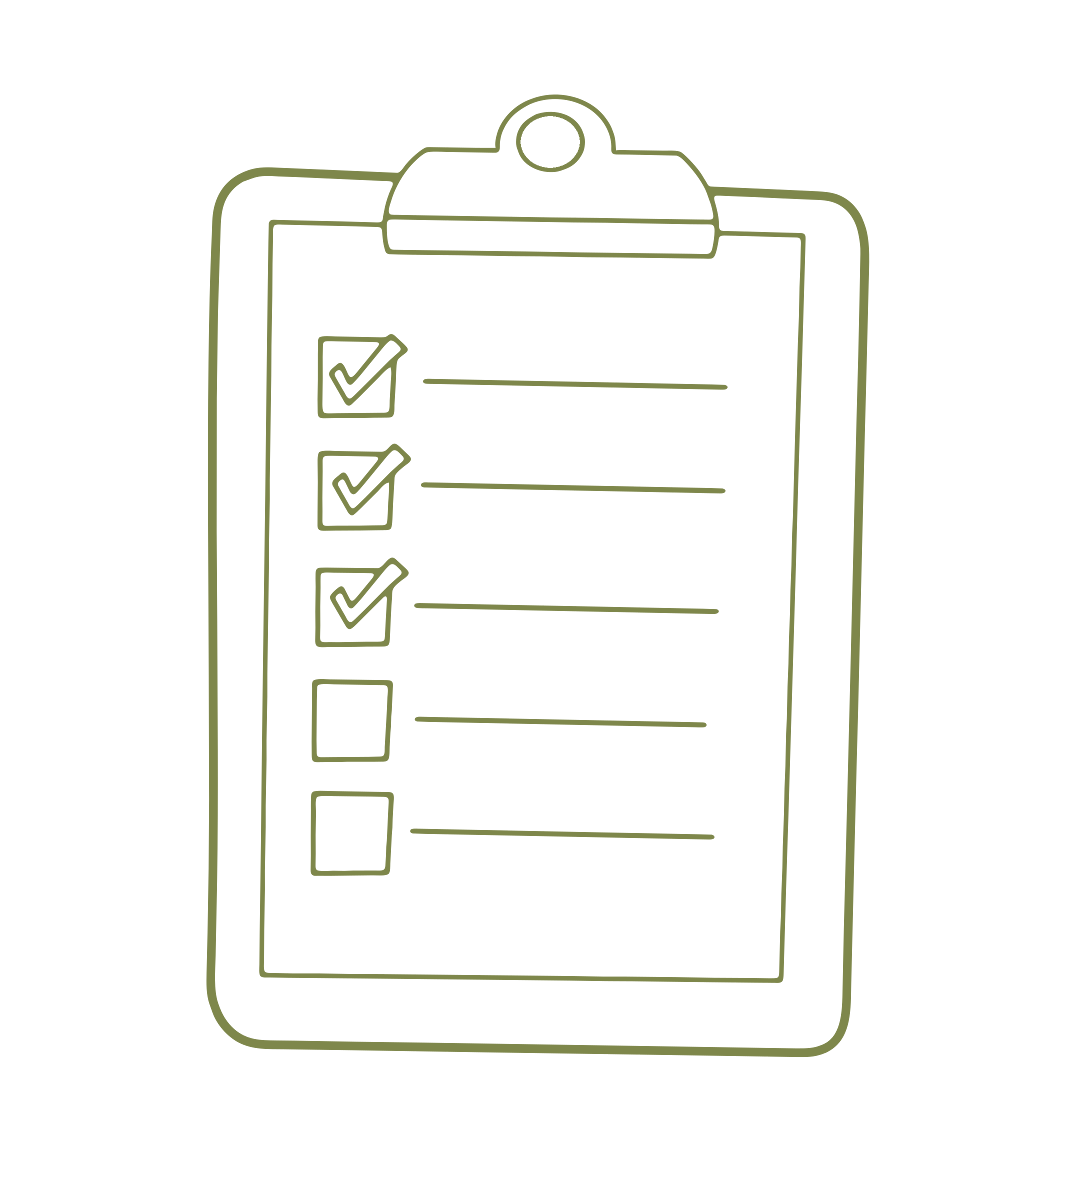
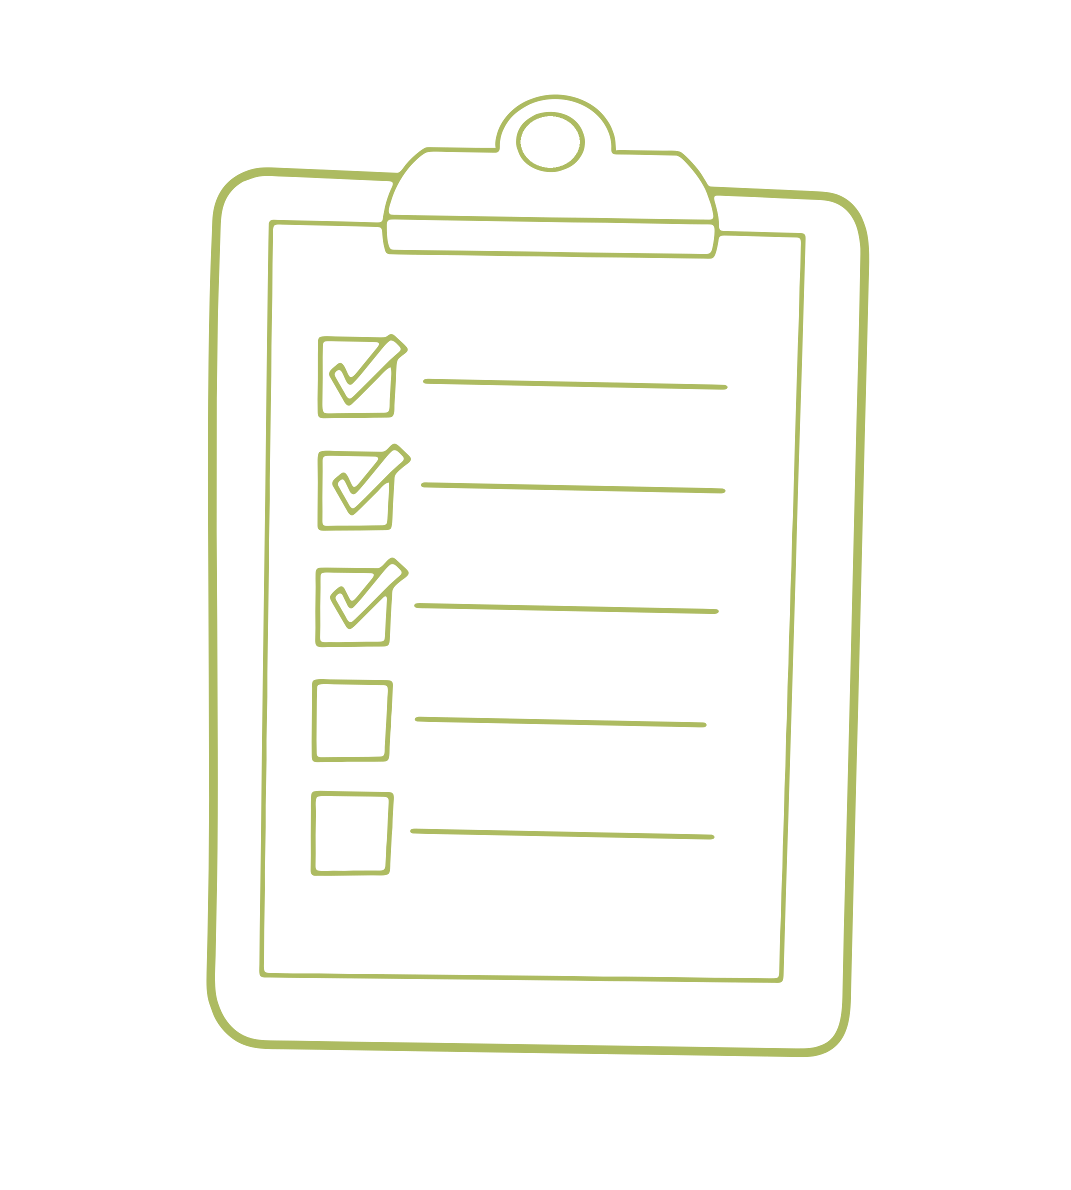
Updated homepage layout/color scheme.

diff --git a/styles/base.min.css b/styles/base.min.css
@@ -1,1 +1,1 @@
-#homepage{background:#fff}h1#logo{height:15vh;padding:2vh;background-color:#263056;background-image:url(../assets/img/logo.png);background-size:contain;background-position:center left;background-repeat:no-repeat;background-origin:content-box;color:#fff;font-size:2.5rem;line-height:11vh;text-indent:15vh}#homepage-header{display:flex;flex-direction:row;height:85vh;overflow:hidden}#homepage-header .homepage-tab{display:flex;position:relative;flex-direction:column;align-items:center;justify-content:center;flex:4;cursor:pointer;transition:flex 400ms}#homepage-header .homepage-tab:hover{flex:5}#homepage-header .homepage-tab#admin-tab .tab-icon{transform:rotate(4deg);transition:transform 400ms}#homepage-header .homepage-tab#admin-tab:hover .tab-icon{transform:rotate(0deg);transition:transform 400ms 400ms}#homepage-header .homepage-tab .tab-icon{width:18vw}#homepage-header .homepage-tab .tab-name{font-size:2.5rem}#homepage-header .homepage-tab .tab-button{display:inline-block;margin:4rem 1rem 0;padding:1rem;background-color:#FA7268;color:#141414;font-family:Teko,Impact,sans-serif;font-size:2rem;text-decoration:none;transform:skewX(-4deg);transition:background-color 400ms,color 400ms}#homepage-header .homepage-tab .tab-button .tab-button-text{display:block;transform:skewX(4deg)}#homepage-header .homepage-tab:hover .tab-button.default-link,#homepage-header .homepage-tab .tab-button:hover{background-color:#141414;color:#fff}#homepage-header .homepage-tab:hover .tab-button.default-link.not-selected{background-color:#FA7268;color:#141414}#homepage-header .divider{position:relative;flex:0}#homepage-header .divider:after{content:'';position:absolute;left:0;right:0;top:-25vh;bottom:-25vh;z-index:100;width:8vw;border-style:dashed;border-width:0;transform:translateX(-50%) rotate(4deg)}#homepage-header .divider.start:after{border-color:#7E874B;border-right-width:2px}#homepage-header .divider.middle:after{background:linear-gradient(90deg, #7E874B 0%, #7E874B 49.5%, #FA7268 50.5%, #FA7268 100%);transition:width 400ms}#homepage-header .divider.end:after{border-color:#7E874B;border-left-width:2px}#homepage-header:hover .divider.middle:after{width:4vw}@media screen and (max-width: 900px){#homepage-header{flex-direction:column;height:auto}#homepage-header .homepage-tab{flex:auto}#homepage-header .homepage-tab:hover{flex:auto}#homepage-header .homepage-tab#parents-tab{padding:12vh 0}#homepage-header .homepage-tab#admin-tab{padding:12vh 0;min-height:100vh}#homepage-header .homepage-tab#admin-tab .tab-icon{transform:rotate(0deg)}#homepage-header .homepage-tab .tab-icon{width:auto;height:25vh}#homepage-header .homepage-tab .tab-name{font-size:3rem}#homepage-header .homepage-tab .tab-button{display:block;margin:2rem 0}#homepage-header .divider:after{left:-25vw;right:-25vw;top:0;bottom:auto;height:12vh;width:auto;transform:translateY(-50%) rotate(-4deg)}#homepage-header .divider.start:after{content:none}#homepage-header .divider.middle:after{background:linear-gradient(#7E874B 0%, #7E874B 49.5%, #FA7268 50.5%, #FA7268 100%)}#homepage-header .divider.end:after{border-left-width:0;border-top-width:2px}#homepage-header:hover .divider.middle:after{width:auto}}@media screen and (max-width: 700px){h1#logo{height:10vh;padding:1vh;font-size:1.5rem;line-height:8vh;text-indent:10vh}}@media screen and (max-width: 400px){h1#logo{font-size:1.25rem}#homepage-header .homepage-tab .tab-name{font-size:2rem}#homepage-header .homepage-tab .tab-button{font-size:1.25rem}}#parent-tips-title{font-size:4em;margin:20vh 20vh 10vh 20vh}#parent-tips-title:after{content:'';display:block;width:50%;height:5px;background-color:#7E874B;position:relative;right:0%}.tipsContainer{display:flex;flex-direction:column;justify-content:flex-start;align-items:flex-start;margin:0 20vh}.tipsContainer .tipsItem{display:flex;justify-content:space-between;align-items:flex-start;margin:20px 0}.tipsContainer .tipsItem img{width:20%}.gallery{position:relative;min-height:100vh}.gallery-thumbnails{display:flex;position:relative;flex-wrap:wrap;justify-content:space-between;width:32vw}.gallery-thumbnails .thumbnail{width:30%;margin-bottom:5%;opacity:0;transition:opacity 400ms}.gallery-thumbnails .thumbnail.loaded{opacity:1}.gallery-thumbnails .thumbnail:nth-last-child(1),.gallery-thumbnails .thumbnail:nth-last-child(2),.gallery-thumbnails .thumbnail:nth-last-child(3){margin-bottom:0}.gallery-preview{display:flex;justify-content:center;align-items:center;position:absolute;top:0;right:0;width:44vw;height:94vh;padding:0;background:#eee}.gallery-preview img{display:none;max-width:90%;max-height:90%;opacity:0;transition:transform 400ms,opacity 400ms}.gallery-preview img.loaded.show{display:block;opacity:1}.gallery-preview.scroll-progress{position:fixed;right:10vw;top:6vh}.gallery-preview.scroll-progress img{transform:translateY(0)}.gallery-preview.scroll-end{top:auto;bottom:0;transition:top 0s}@media screen and (max-width: 1200px){.gallery-thumbnails .thumbnail{width:47.5%}}@media screen and (max-width: 900px){.gallery{padding:0 1rem}.gallery-thumbnails{width:100%}.gallery-thumbnails .thumbnail{width:30%}.gallery-preview{display:none}}@media screen and (max-width: 600px){.gallery-thumbnails .thumbnail{width:47.5%}}#navbar{background-color:#263056;display:flex;justify-content:space-between;align-items:center;position:fixed;top:0;left:0;right:0;z-index:10;height:10vh;transition:height .3s ease}#navbar.shrink{height:6vh}#navbar #logo{height:100%;padding:2vh;background-image:url(../assets/img/logo.png);background-size:contain;background-position:center left;background-repeat:no-repeat;background-origin:content-box;color:#fff;font-size:2.5rem;line-height:6vh;text-indent:8vh;cursor:pointer;transition:padding .3s ease, height .3s ease}#navbar #hamburger{display:none}#navbar #nav-buttons{display:none;justify-content:space-between;height:100%;margin-right:150px}#navbar #nav-buttons.ready{display:flex}#navbar #nav-buttons li{height:100%;display:flex;align-items:center}#navbar #nav-buttons li a{display:flex;align-items:center;height:100%;padding:0vh 20px;color:#fff;font-size:1.3em;position:relative}#navbar #nav-buttons li a:after{content:'';display:block;position:absolute;bottom:0px;left:0;height:5px;width:100%;transform:scaleX(0);background-color:#7E874B;transition:transform .1s linear}#navbar #nav-buttons li a:hover{color:#7E874B}#navbar #nav-buttons li a:hover:after{transform:scaleX(0.8)}footer{position:relative;width:100%;height:110px;background:#141414;border-top:3px solid #7E874B;color:#fff;padding:10px;display:flex;justify-content:center;align-items:center;flex-direction:column}footer p{font-size:1.2rem}footer ul{display:flex;justify-content:space-around}footer ul li{padding:5px 20px}footer ul a{color:#fff}footer ul a:hover{color:#7E874B}*{box-sizing:border-box;margin:0;padding:0}body{font-family:Hind,Arial,sans-serif;color:#141414}h1,h2,h3,h4,h5,h6{font-family:Teko,Impact,sans-serif}ul,ol{list-style-type:none}a{text-decoration:none}img{display:block;max-width:100%;max-height:100%}h2.sectionTitle{font-size:3rem;margin:2rem 0}.content{margin:10vw}p{font-size:1.25rem;line-height:1.75}@media (max-width: 680px){#navbar #logo{font-size:1.8rem}}@media (max-width: 1200px){#navbar{align-items:flex-start;justify-content:flex-start;height:10vh}#navbar #logo{height:100%}#navbar #nav-buttons{margin:0}#navbar #nav-buttons .navButton{text-align:center}#navbar #nav-buttons .navButton a{display:flex;justify-content:center;width:100%;text-align:center;padding:0}#navbar #nav-buttons.hamMenu{display:flex;flex-direction:column;justify-content:flex-start;align-items:center;height:260px;width:200px;box-sizing:border-box;position:fixed;right:0px;top:6vh;transition:right .3s ease-in-out;padding:2vh 0px 1vh 0px;background-color:#141414;z-index:-1;border-radius:2px}#navbar #nav-buttons.hamMenu.closed{right:-220px}#navbar #nav-buttons.hamMenu .navButton{position:relative;width:100%;background-color:#141414;display:flex;justify-content:center}#navbar #nav-buttons.hamMenu .navButton a{display:flex;align-items:center;height:100%;padding:0vh 20px;color:#fff;font-size:1.3em;position:relative}#navbar #nav-buttons.hamMenu .navButton a:after{content:'';display:block;position:absolute;bottom:0px;left:0;height:5px;width:100%;transform:scaleX(0);background-color:#7E874B;transition:transform .1s linear}#navbar #nav-buttons.hamMenu .navButton a:hover{color:#7E874B}#navbar #nav-buttons.hamMenu .navButton a:hover:after{transform:scaleX(1)}#navbar #hamburger{width:40px;height:40px;display:flex;flex-direction:column;justify-content:space-between;position:absolute;cursor:pointer;top:50%;right:50px;transform:translate(0px, -50%);border-radius:50%;overflow:hidden;z-index:100}#navbar #hamburger #shutter-layer{background-image:url("../assets/img/svg-shutter-icon-2.svg");background-size:100%;background-position:center;width:100%;height:100%;position:absolute;transition:background-size .3s ease-in-out}#navbar #hamburger #shutter-layer.grow{background-size:450%}#navbar #hamburger #X-layer{color:#fff;display:none;justify-content:center;align-items:center;width:100%;height:100%;position:absolute;opacity:1;right:50%;top:50%;font-size:2.5em;transform:translate(50%, -50%);transition:opacity .2s linear}#navbar #hamburger #X-layer.ready{display:flex}#navbar #hamburger #X-layer.hidden{opacity:0}#navbar #hamburger #X-layer:not(.hidden) .xPiece{width:5px;height:40px;border-radius:4px;background-color:#fff;position:absolute}#navbar #hamburger #X-layer:not(.hidden) .xPiece:nth-child(1){transform:rotate(45deg);transform-origin:center}#navbar #hamburger #X-layer:not(.hidden) .xPiece:nth-child(2){transform:rotate(-45deg);transform-origin:center}}
+#homepage{background:#fff}h1#logo{position:absolute;top:0;left:0;z-index:500;height:10vh;padding:2vh;background-color:white;background-image:url(../assets/img/logo.png);background-size:contain;background-position:center left;background-repeat:no-repeat;background-origin:content-box;color:#263056;font-size:2rem;line-height:6vh;text-indent:8vh}#homepage-header{display:flex;flex-direction:row;height:100vh;overflow:hidden}#homepage-header .homepage-tab{display:flex;position:relative;flex-direction:column;align-items:center;justify-content:center;flex:4;cursor:pointer;transition:flex 400ms}#homepage-header .homepage-tab:hover{flex:5}#homepage-header .homepage-tab#admin-tab{background-color:#263056;color:#fff}#homepage-header .homepage-tab#admin-tab .tab-icon{transform:rotate(4deg);transition:transform 400ms}#homepage-header .homepage-tab#admin-tab:hover .tab-icon{transform:rotate(0deg);transition:transform 400ms 400ms}#homepage-header .homepage-tab .tab-icon{width:18vw}#homepage-header .homepage-tab .tab-name{font-size:2.5rem}#homepage-header .homepage-tab .tab-button{display:inline-block;margin:4rem 1rem 0;padding:1rem;font-family:Teko,Impact,sans-serif;font-size:2rem;text-decoration:none;transform:skewX(-4deg);transition:background-color 400ms,color 400ms}#homepage-header .homepage-tab .tab-button .tab-button-text{display:block;transform:skewX(4deg)}#homepage-header .homepage-tab .tab-button,#homepage-header .homepage-tab:hover .tab-button.default-link.not-selected{background-color:#adbb61;color:#141414}#homepage-header .homepage-tab:hover .tab-button.default-link,#homepage-header .homepage-tab .tab-button:hover{background-color:#141414;color:#fff}#homepage-header .divider{position:relative;flex:0}#homepage-header .divider:after{content:'';position:absolute;left:0;right:0;top:-25vh;bottom:-25vh;z-index:100;width:8vw;border-style:dashed;border-width:0;transform:translateX(-50%) rotate(4deg)}#homepage-header .divider.start:after{border-color:#adbb61;border-right-width:2px}#homepage-header .divider.middle:after{background-color:#E57164;transition:width 400ms}#homepage-header .divider.end:after{border-color:#fff;border-left-width:2px}#homepage-header:hover .divider.middle:after{width:6vw}@media screen and (max-width: 900px){#homepage-header{flex-direction:column;height:auto}#homepage-header .homepage-tab{flex:auto}#homepage-header .homepage-tab:hover{flex:auto}#homepage-header .homepage-tab#parents-tab{padding:12vh 0}#homepage-header .homepage-tab#admin-tab{padding:12vh 0;min-height:100vh}#homepage-header .homepage-tab#admin-tab .tab-icon{transform:rotate(0deg)}#homepage-header .homepage-tab .tab-icon{width:auto;height:25vh}#homepage-header .homepage-tab .tab-name{font-size:3rem}#homepage-header .homepage-tab .tab-button{display:block;margin:2rem 0}#homepage-header .divider:after{left:-25vw;right:-25vw;top:0;bottom:auto;height:12vh;width:auto;transform:translateY(-50%) rotate(-4deg)}#homepage-header .divider.start:after{content:none}#homepage-header .divider.end:after{border-left-width:0;border-top-width:2px}#homepage-header:hover .divider.middle:after{width:auto}}@media screen and (max-width: 700px){h1#logo{height:10vh;padding:1vh;font-size:1.5rem;line-height:8vh;text-indent:10vh}}@media screen and (max-width: 400px){h1#logo{font-size:1.25rem}#homepage-header .homepage-tab .tab-name{font-size:2rem}#homepage-header .homepage-tab .tab-button{font-size:1.25rem}}#parent-tips-title{font-size:4em;margin:20vh 20vh 10vh 20vh}#parent-tips-title:after{content:'';display:block;width:50%;height:5px;background-color:#adbb61;position:relative;right:0%}.tipsContainer{display:flex;flex-direction:column;justify-content:flex-start;align-items:flex-start;margin:0 20vh}.tipsContainer .tipsItem{display:flex;justify-content:space-between;align-items:flex-start;margin:20px 0}.tipsContainer .tipsItem img{width:20%}.gallery{position:relative;min-height:100vh}.gallery-thumbnails{display:flex;position:relative;flex-wrap:wrap;justify-content:space-between;width:32vw}.gallery-thumbnails .thumbnail{width:30%;margin-bottom:5%;opacity:0;transition:opacity 400ms}.gallery-thumbnails .thumbnail.loaded{opacity:1}.gallery-thumbnails .thumbnail:nth-last-child(1),.gallery-thumbnails .thumbnail:nth-last-child(2),.gallery-thumbnails .thumbnail:nth-last-child(3){margin-bottom:0}.gallery-preview{display:flex;justify-content:center;align-items:center;position:absolute;top:0;right:0;width:44vw;height:94vh;padding:0;background:#eee}.gallery-preview img{display:none;max-width:90%;max-height:90%;opacity:0;transition:transform 400ms,opacity 400ms}.gallery-preview img.loaded.show{display:block;opacity:1}.gallery-preview.scroll-progress{position:fixed;right:10vw;top:6vh}.gallery-preview.scroll-progress img{transform:translateY(0)}.gallery-preview.scroll-end{top:auto;bottom:0;transition:top 0s}@media screen and (max-width: 1200px){.gallery-thumbnails .thumbnail{width:47.5%}}@media screen and (max-width: 900px){.gallery{padding:0 1rem}.gallery-thumbnails{width:100%}.gallery-thumbnails .thumbnail{width:30%}.gallery-preview{display:none}}@media screen and (max-width: 600px){.gallery-thumbnails .thumbnail{width:47.5%}}#navbar{background-color:#263056;display:flex;justify-content:space-between;align-items:center;position:fixed;top:0;left:0;right:0;z-index:10;height:10vh;transition:height .3s ease}#navbar.shrink{height:6vh}#navbar #logo{height:100%;padding:2vh;background-image:url(../assets/img/logo.png);background-size:contain;background-position:center left;background-repeat:no-repeat;background-origin:content-box;color:#fff;font-size:2.5rem;line-height:6vh;text-indent:8vh;cursor:pointer;transition:padding .3s ease, height .3s ease}#navbar #hamburger{display:none}#navbar #nav-buttons{display:none;justify-content:space-between;height:100%;margin-right:150px}#navbar #nav-buttons.ready{display:flex}#navbar #nav-buttons li{height:100%;display:flex;align-items:center}#navbar #nav-buttons li a{display:flex;align-items:center;height:100%;padding:0vh 20px;color:#fff;font-size:1.3em;position:relative}#navbar #nav-buttons li a:after{content:'';display:block;position:absolute;bottom:0px;left:0;height:5px;width:100%;transform:scaleX(0);background-color:#adbb61;transition:transform .1s linear}#navbar #nav-buttons li a:hover{color:#adbb61}#navbar #nav-buttons li a:hover:after{transform:scaleX(0.8)}footer{position:relative;width:100%;height:110px;background:#141414;border-top:3px solid #adbb61;color:#fff;padding:10px;display:flex;justify-content:center;align-items:center;flex-direction:column}footer p{font-size:1.2rem}footer ul{display:flex;justify-content:space-around}footer ul li{padding:5px 20px}footer ul a{color:#fff}footer ul a:hover{color:#adbb61}*{box-sizing:border-box;margin:0;padding:0}body{font-family:Hind,Arial,sans-serif;color:#141414}h1,h2,h3,h4,h5,h6{font-family:Teko,Impact,sans-serif}ul,ol{list-style-type:none}a{text-decoration:none}img{display:block;max-width:100%;max-height:100%}h2.sectionTitle{font-size:3rem;margin:2rem 0}.content{margin:10vw}p{font-size:1.25rem;line-height:1.75}@media (max-width: 680px){#navbar #logo{font-size:1.8rem}}@media (max-width: 1200px){#navbar{align-items:flex-start;justify-content:flex-start;height:10vh}#navbar #logo{height:100%}#navbar #nav-buttons{margin:0}#navbar #nav-buttons .navButton{text-align:center}#navbar #nav-buttons .navButton a{display:flex;justify-content:center;width:100%;text-align:center;padding:0}#navbar #nav-buttons.hamMenu{display:flex;flex-direction:column;justify-content:flex-start;align-items:center;height:260px;width:200px;box-sizing:border-box;position:fixed;right:0px;top:6vh;transition:right .3s ease-in-out;padding:2vh 0px 1vh 0px;background-color:#141414;z-index:-1;border-radius:2px}#navbar #nav-buttons.hamMenu.closed{right:-220px}#navbar #nav-buttons.hamMenu .navButton{position:relative;width:100%;background-color:#141414;display:flex;justify-content:center}#navbar #nav-buttons.hamMenu .navButton a{display:flex;align-items:center;height:100%;padding:0vh 20px;color:#fff;font-size:1.3em;position:relative}#navbar #nav-buttons.hamMenu .navButton a:after{content:'';display:block;position:absolute;bottom:0px;left:0;height:5px;width:100%;transform:scaleX(0);background-color:#adbb61;transition:transform .1s linear}#navbar #nav-buttons.hamMenu .navButton a:hover{color:#adbb61}#navbar #nav-buttons.hamMenu .navButton a:hover:after{transform:scaleX(1)}#navbar #hamburger{width:40px;height:40px;display:flex;flex-direction:column;justify-content:space-between;position:absolute;cursor:pointer;top:50%;right:50px;transform:translate(0px, -50%);border-radius:50%;overflow:hidden;z-index:100}#navbar #hamburger #shutter-layer{background-image:url("../assets/img/svg-shutter-icon-2.svg");background-size:100%;background-position:center;width:100%;height:100%;position:absolute;transition:background-size .3s ease-in-out}#navbar #hamburger #shutter-layer.grow{background-size:450%}#navbar #hamburger #X-layer{color:#fff;display:none;justify-content:center;align-items:center;width:100%;height:100%;position:absolute;opacity:1;right:50%;top:50%;font-size:2.5em;transform:translate(50%, -50%);transition:opacity .2s linear}#navbar #hamburger #X-layer.ready{display:flex}#navbar #hamburger #X-layer.hidden{opacity:0}#navbar #hamburger #X-layer:not(.hidden) .xPiece{width:5px;height:40px;border-radius:4px;background-color:#fff;position:absolute}#navbar #hamburger #X-layer:not(.hidden) .xPiece:nth-child(1){transform:rotate(45deg);transform-origin:center}#navbar #hamburger #X-layer:not(.hidden) .xPiece:nth-child(2){transform:rotate(-45deg);transform-origin:center}}

diff --git a/styles/_homepage.scss b/styles/_homepage.scss
@@ -1,30 +1,35 @@
 // main: base.scss
 
-$homepage-logo-height: 15vh;
+$homepage-logo-height: 10vh;
+$homepage-logo-padding: 2vh;
 
 #homepage {
     background: $neutral-light;
 }
 
 h1#logo {
+    position: absolute;
+    top: 0;
+    left: 0;
+    z-index: 500;
     height: $homepage-logo-height;
-    padding: 2vh;
-    background-color: $primary-accent;
+    padding: $homepage-logo-padding;
+    background-color: white;
     background-image: url(../assets/img/logo.png);
     background-size: contain;
     background-position: center left;
     background-repeat: no-repeat;
     background-origin: content-box;
-    color: $neutral-light;
-    font-size: 2.5rem;
-    line-height: 11vh;
-    text-indent: 15vh;
+    color: $primary-accent;
+    font-size: 2rem;
+    line-height: #{$homepage-logo-height - 2*$homepage-logo-padding};
+    text-indent: #{$homepage-logo-height - $homepage-logo-padding};
 }
 
 #homepage-header {
     display: flex;
     flex-direction: row;
-    height: #{100vh - $homepage-logo-height    };
+    height: 100vh;
     overflow: hidden;
 
     .homepage-tab {
@@ -42,6 +47,8 @@ h1#logo {
         }
 
         &#admin-tab {
+            background-color: $primary-accent;
+            color: $neutral-light;
 
             .tab-icon {
                 transform: rotate(4deg);
@@ -65,8 +72,6 @@ h1#logo {
             display: inline-block;
             margin: 4rem 1rem 0;
             padding: 1rem;
-            background-color: $secondary-accent;
-            color: $neutral-dark;
             font-family: $display-font;
             font-size: 2rem;
             text-decoration: none;
@@ -78,13 +83,13 @@ h1#logo {
                 transform: skewX(4deg);
             }
         }
+        .tab-button, &:hover .tab-button.default-link.not-selected {
+            background-color: $main-color;
+            color: $neutral-dark;
+        }
         &:hover .tab-button.default-link, .tab-button:hover {
             background-color: $neutral-dark;
             color: $neutral-light;
-        }
-        &:hover .tab-button.default-link.not-selected {
-            background-color: $secondary-accent;
-            color: $neutral-dark;
         }
     } // end .homepage-tab
 
@@ -112,17 +117,17 @@ h1#logo {
         }
 
         &.middle:after {
-            background: linear-gradient(90deg, $main-color 0%, $main-color 49.5%, $secondary-accent 50.5%, $secondary-accent 100%);
+            background-color: $secondary-accent;
             transition: width $med-transition;
         }
 
         &.end:after {
-            border-color: $main-color;
+            border-color: $neutral-light;
             border-left-width: 2px;
         }
     } // end .divider
     &:hover .divider.middle:after {
-        width: 4vw; // Shrink middle divider when hovered over either tab
+        width: 6vw; // Shrink middle divider when hovered over either tab
     }
 
 } // end #homepage-header
@@ -189,10 +194,6 @@ h1#logo {
                 // height: 8vh;
                 // border-right-width: 0;
                 // border-bottom-width: 2px;
-            }
-
-            &.middle:after {
-                background: linear-gradient($main-color 0%, $main-color 49.5%, $secondary-accent 50.5%, $secondary-accent 100%);
             }
 
             &.end:after {

diff --git a/styles/base.scss b/styles/base.scss
@@ -2,9 +2,9 @@
 // Variables
 // --------------------------------------------------
 
-$main-color: #7E874B;
+$main-color: rgb(173, 187, 97);
 $primary-accent: #263056;
-$secondary-accent: #FA7268;
+$secondary-accent: #E57164;
 $neutral-light: white;
 $neutral-dark: #141414;
 
